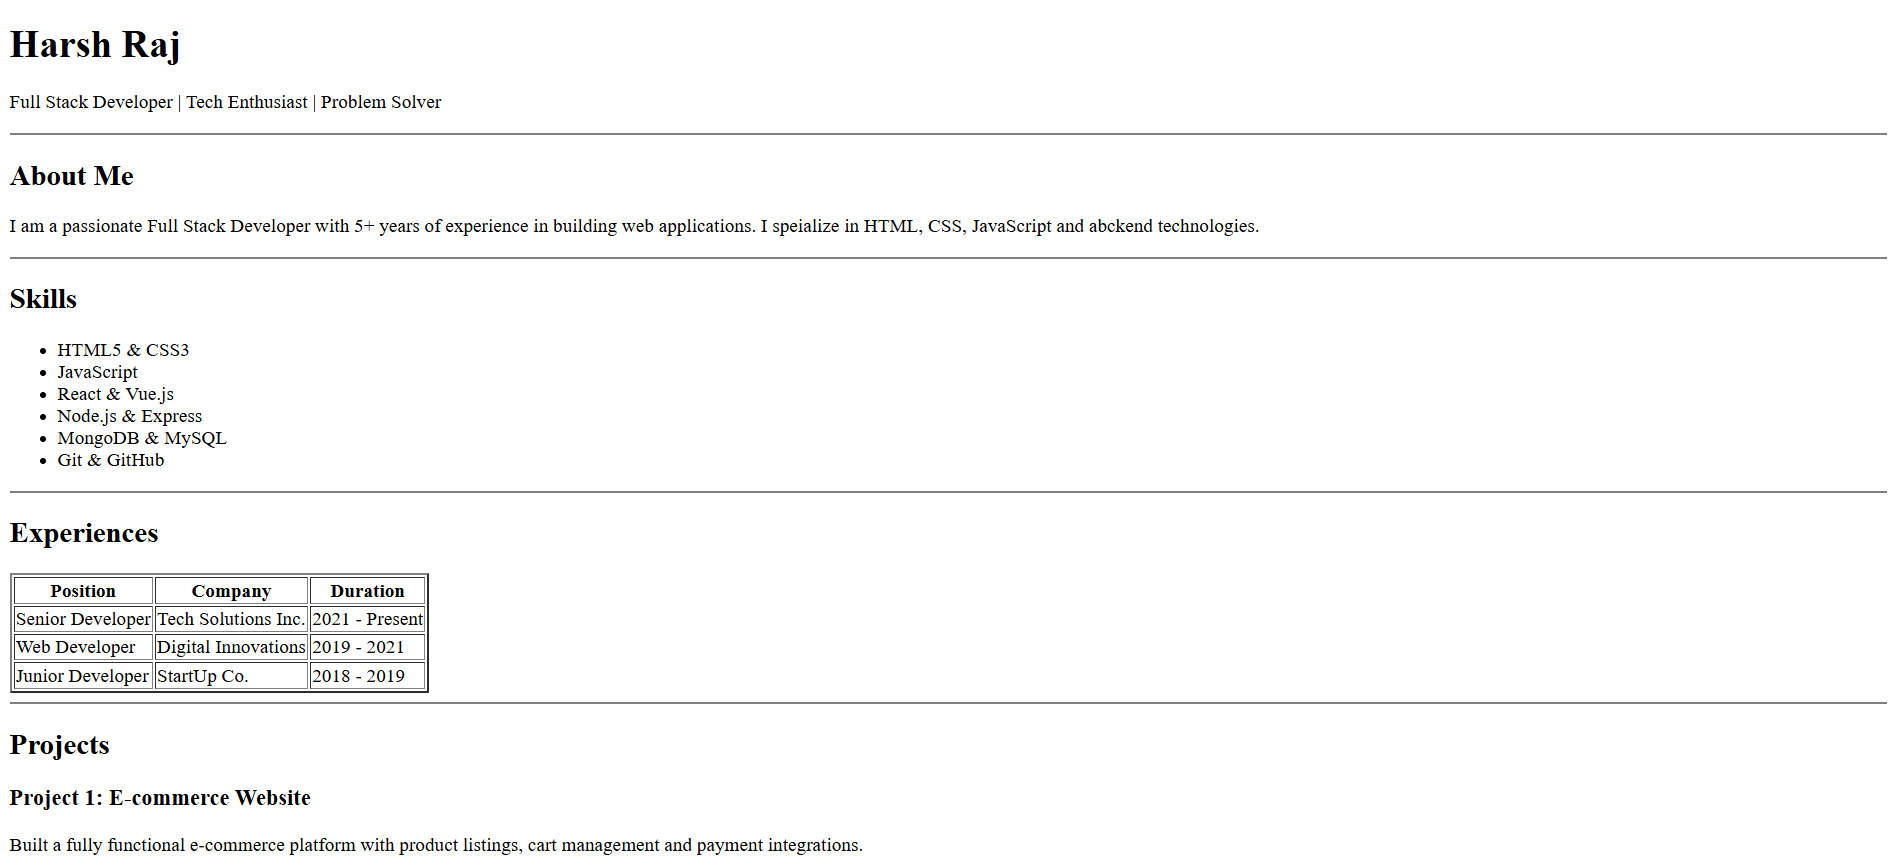
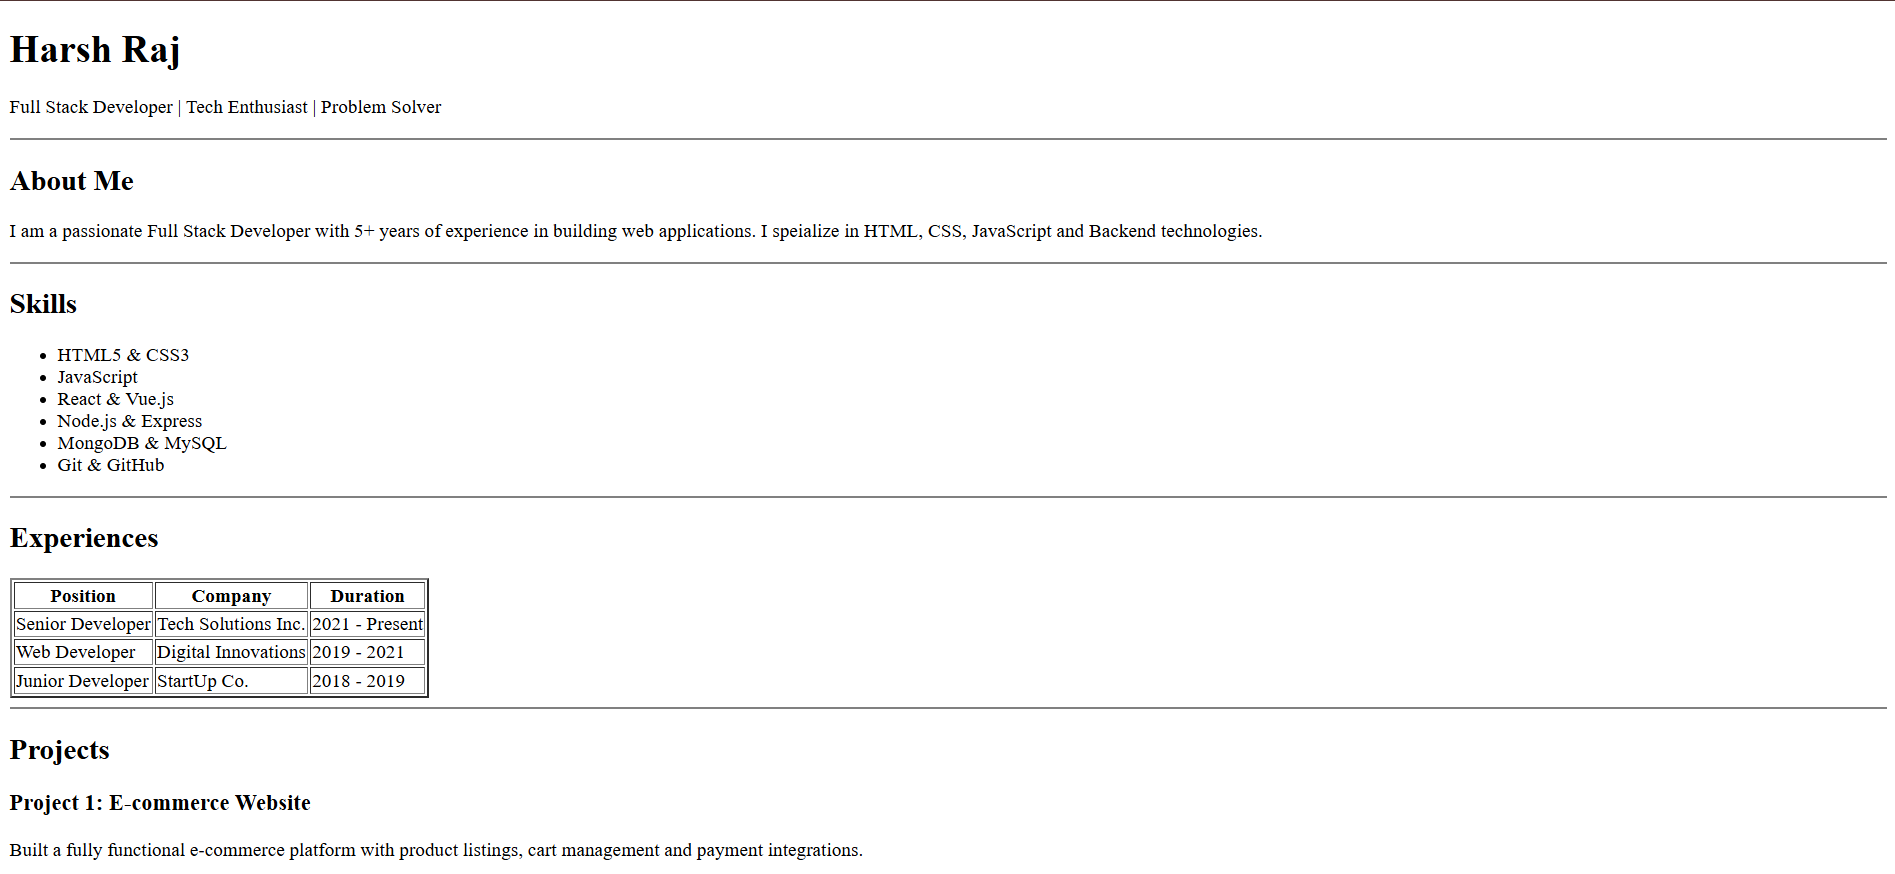
Fix typo in project description on index.html

diff --git a/index.html b/index.html
@@ -20,7 +20,7 @@
             </h2>
             <p>
                 I am a passionate Full Stack Developer with 5+ years of experience in building web applications. I
-                speialize in HTML, CSS, JavaScript and abckend technologies.
+                speialize in HTML, CSS, JavaScript and Backend technologies.
             </p>
         </section>
         <hr size="2" noshade>
